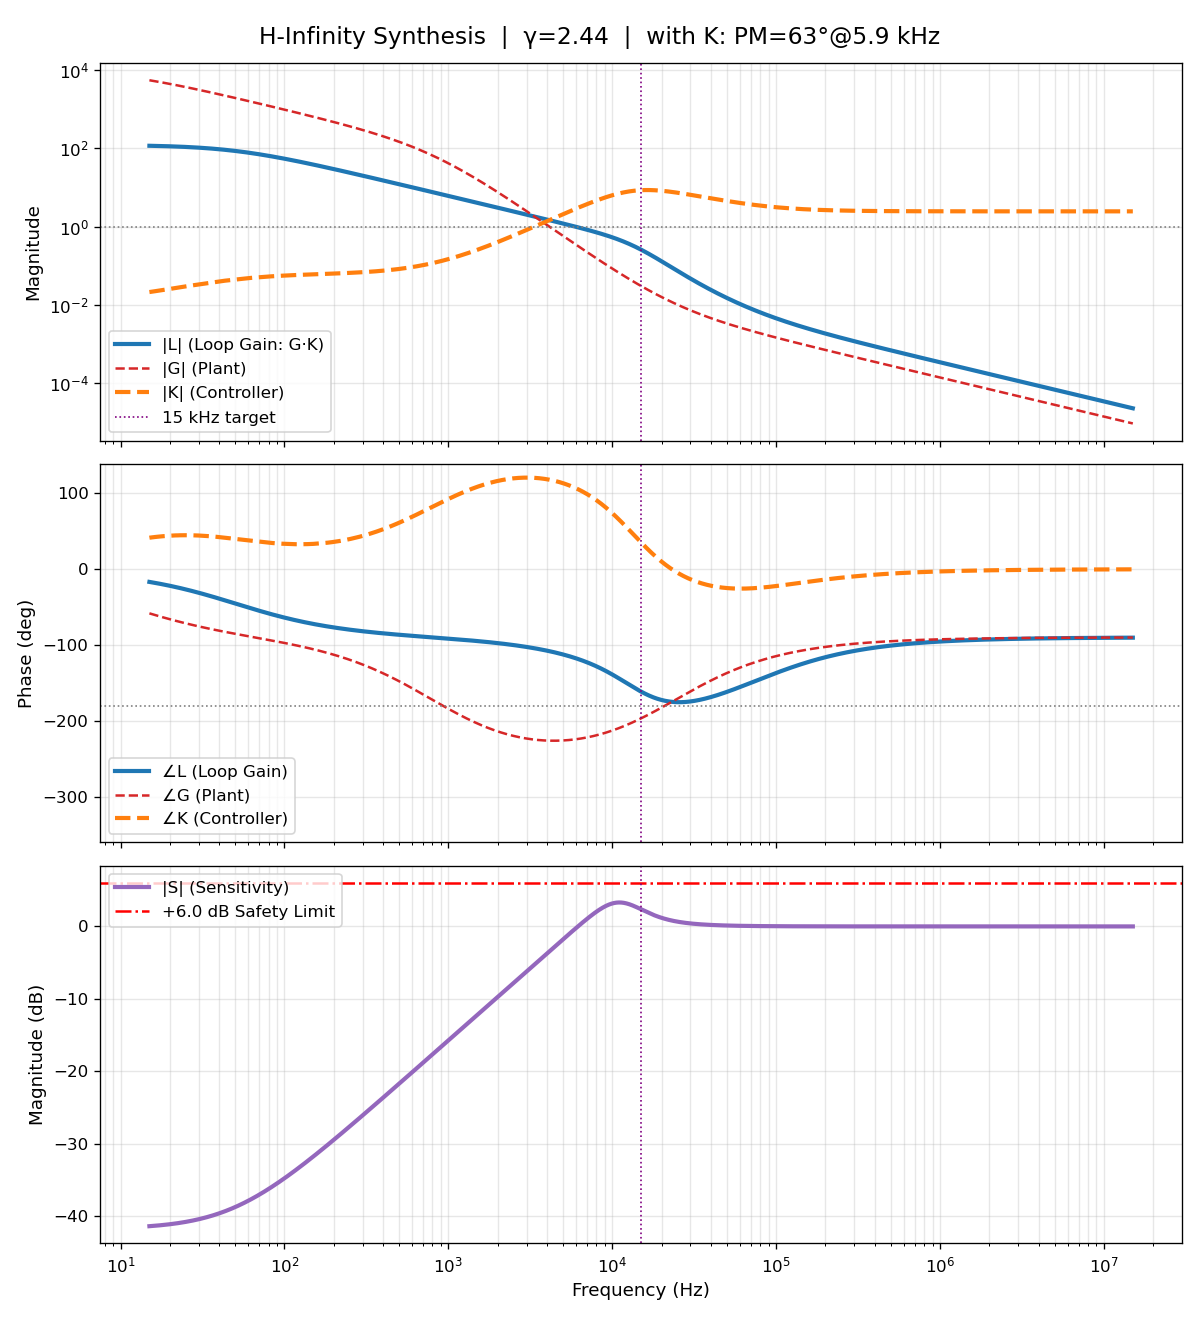
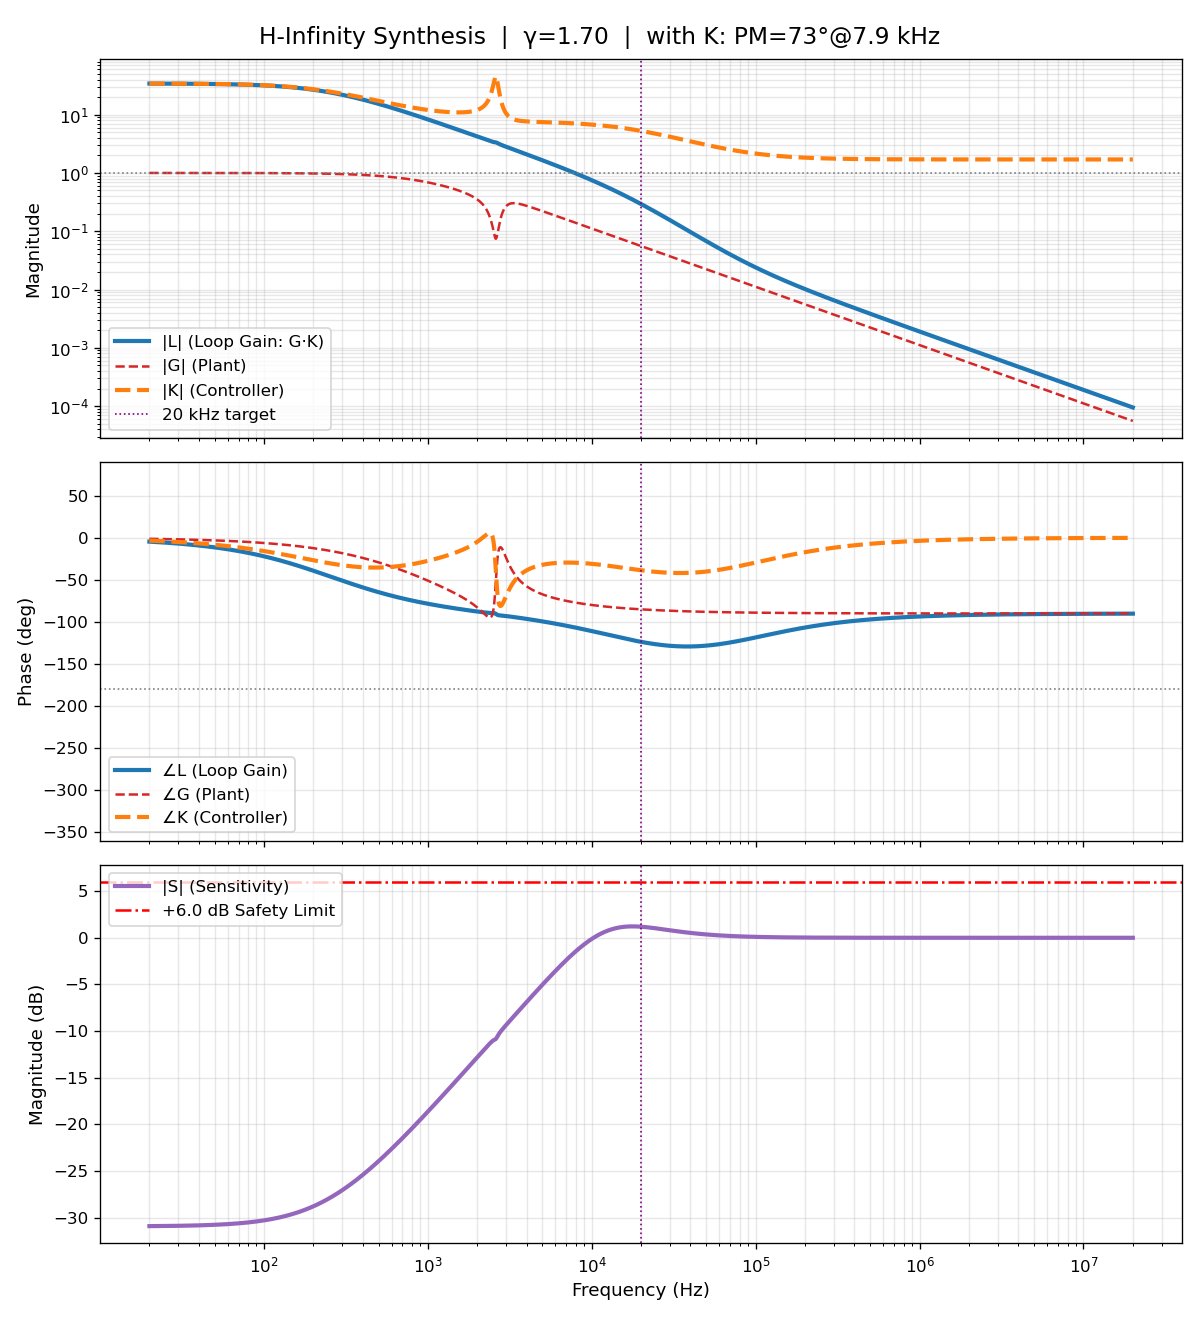
More const testing

diff --git a/scripts/create_plant.py b/scripts/create_plant.py
@@ -40,25 +40,26 @@ def complex_pair(fn_hz, Q):
 
 ZEROS_HZ = sum([
     # Add your zeros here
-    # complex_pair(2.6e3, Q=15.0),
+    complex_pair(2.6e3, Q=15.0),
     # complex_pair(4.8e3, Q=2),
     # complex_pair(70e3, Q=0.4),
     # complex_pair(13e3, Q=25),
     # complex_pair(42134.4, Q=1)
-    real_root(22.7863e3),
-    real_root(22.7856e3)
+    # real_root(22.7863e3),
+    # real_root(22.7856e3)
 ], [])
 
 POLES_HZ = sum([
     # Add your poles here
-    # complex_pair(2744.1, Q=3.11)   # Example: Overdamped 2nd order roll-off
-    real_root(10), # Pole representing integator action
-    real_root(0.841579e3),
-    real_root(0.841358e3)
+    complex_pair(2744.1, Q=3.11),   # Example: Overdamped 2nd order roll-off
+    real_root(1000)
+    # real_root(10), # Pole representing integator action
+    # real_root(0.841579e3),
+    # real_root(0.841358e3)
 ], [])
 
 # Set the desired DC gain of the plant
-TARGET_DC_GAIN = 10000.0
+TARGET_DC_GAIN = 1.0
 OUTPUT_FILE = "custom_plant.npz"
 
 # =========================================================================

diff --git a/src/hinf_coeffs.h b/src/hinf_coeffs.h
@@ -1,5 +1,5 @@
 // hinf_coeffs.h — auto-generated by coeffs_analyze.py
-// Q3.29  3 sections  fs=0.9766 MHz  quant err -93.8 dB
+// Q3.29  3 sections  fs=0.9766 MHz  quant err -93.3 dB
 #ifndef HINF_COEFFS_H
 #define HINF_COEFFS_H
 #include <stdint.h>
@@ -12,9 +12,9 @@
 typedef struct { int32_t b0,b1,b2,a1,a2; } hinf_sos_t;
 
 static const hinf_sos_t HINF_SOS[3] = {
-    { 1505927789,  663118933,          0,  236406513,          0},
-    {  536870912,-1067944279,  531089019,-1011382903,  478394565},
-    {  536870912, -853931275,  317074499,-1032732907,  495875130}
+    { 1092788681,  481197617,          0,  236488116,          0},
+    {  536870912, -850522666,  315061255,-1014932511,  478154731},
+    {  536870912,-1070536003,  533831955,-1073010657,  536289980}
 };
 
 #endif
